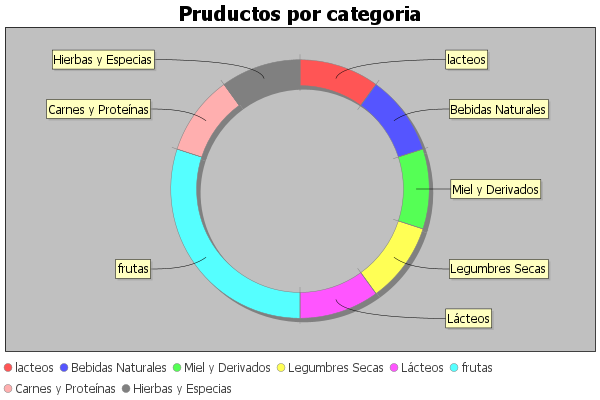
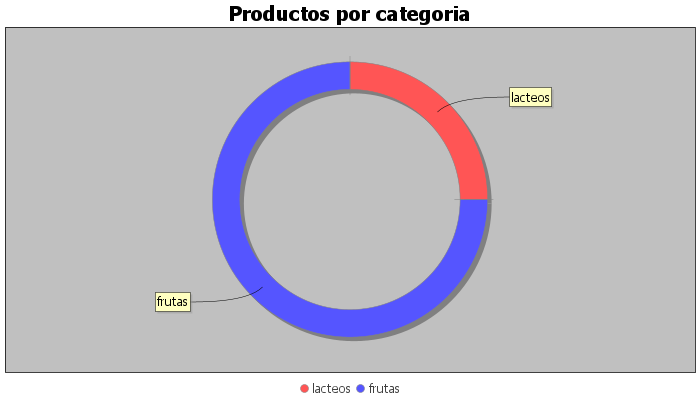
Productos por categoria, se espera revision

diff --git a/Huerta-directa/src/main/resources/templates/Dashboard_Admin/GraficosCategoriaAdmin.html b/Huerta-directa/src/main/resources/templates/Dashboard_Admin/GraficosCategoriaAdmin.html
@@ -53,8 +53,9 @@
           <a class="" href="#"> Graficos por categorias </a>
         </div>
         <div class="flex  gap-10">
-         <img th:src="@{${graficosCategoria}}" alt="Gráfico por categorías" class="!w-[700px] !mx-auto">
- 
+        <img th:src="@{/graficos/productosPorCategoria.png}" 
+     alt="Gráfico por categorías" 
+     class="!w-[700px] !mx-auto">
           <table
             class="!w-full !bg-white !rounded-xl !overflow-hidden !shadow-lg !border !border-gray-200"
           >

diff --git a/Huerta-directa/src/main/java/com/exe/Huerta_directa/Controllers/RutasPagina.java b/Huerta-directa/src/main/java/com/exe/Huerta_directa/Controllers/RutasPagina.java
@@ -306,52 +306,51 @@ public class RutasPagina {
         return "DashBoard/GraficosDashboarCliente";
     }
 
-    @GetMapping("/GraficosCategoriaAdmin")
-    public String GraficosCategoriaAdmin(Model model) {
+   @GetMapping("/GraficosCategoriaAdmin")
+public String GraficosCategoriaAdmin(Model model) {
 
-        Map<String, Long> datosCategoria = productService.contarProductosPorCategoria();
-        model.addAttribute("datosCategoria", datosCategoria);
+    Map<String, Long> datosCategoria = productService.contarProductosPorCategoria();
+    model.addAttribute("datosCategoria", datosCategoria);
 
-        // delay para que se pueda recargar bien la imgagen
+   
 
-        try {
-            Thread.sleep(3000); // 3 segundos de espera
+    DefaultPieDataset<String> dataset = new DefaultPieDataset<>();
+    datosCategoria.forEach(dataset::setValue);
 
-        } catch (InterruptedException e) {
-            e.printStackTrace();
-        }
+    JFreeChart chart = ChartFactory.createRingChart(
+            "Productos por categoria",
+            dataset,
+            true,
+            true,
+            false);
 
-        DefaultPieDataset<String> dataset = new DefaultPieDataset<>();
-        datosCategoria.forEach(dataset::setValue);
+    // RUTA CORRECTA PARA SPRING BOOT
+    String rutaCarpeta = new File("src/main/resources/static/graficos").getAbsolutePath();
+    File carpeta = new File(rutaCarpeta);
+    carpeta.mkdirs();
 
-        JFreeChart chart = ChartFactory.createRingChart(
-                "Pruductos por categoria",
-                dataset,
-                true,
-                true,
-                false);
+    File outputFile = new File(carpeta, "productosPorCategoria.png");
 
-        // *** RUTA REAL EN TIEMPO DE EJECUCIÓN ***
-        String rutaCarpeta = new File("graficos").getAbsolutePath();
-        File carpeta = new File(rutaCarpeta);
-        carpeta.mkdirs(); // crea la carpeta si no existe
 
-        File outputFile = new File(carpeta, "productosPorCategoria.png");
-
-        try (FileOutputStream fos = new FileOutputStream(outputFile)) {
-            ChartUtils.writeChartAsPNG(fos, chart, 600, 400);
-        } catch (Exception e) {
-            e.printStackTrace();
-        }
-
-        model.addAttribute("graficosCategoria", "/graficos/productosPorCategoria.png");
-
-        List<ProductDTO> productosCategoria = productService.listarProducts();
-        model.addAttribute("productosCategoria", productosCategoria);
-
-        return "Dashboard_Admin/GraficosCategoriaAdmin";
+    
+    try (FileOutputStream fos = new FileOutputStream(outputFile)) {
+        ChartUtils.writeChartAsPNG(fos, chart, 700, 400);
+         try {
+        Thread.sleep(3000); // 3 segundos
+    } catch (InterruptedException e) {
+        e.printStackTrace();
+    }
+    } catch (Exception e) {
+        e.printStackTrace();
     }
 
+    model.addAttribute("graficosCategoria", "/graficos/productosPorCategoria.png?v=" + System.currentTimeMillis());
+
+    List<ProductDTO> productosCategoria = productService.listarProducts();
+    model.addAttribute("productosCategoria", productosCategoria);
+
+    return "Dashboard_Admin/GraficosCategoriaAdmin";
+}
     @GetMapping("/GraficosDashboarAdmin")
     public String DashBoardGraficosAdmin() {
         return "Dashboard_Admin/GraficosDashboarAdmin";
